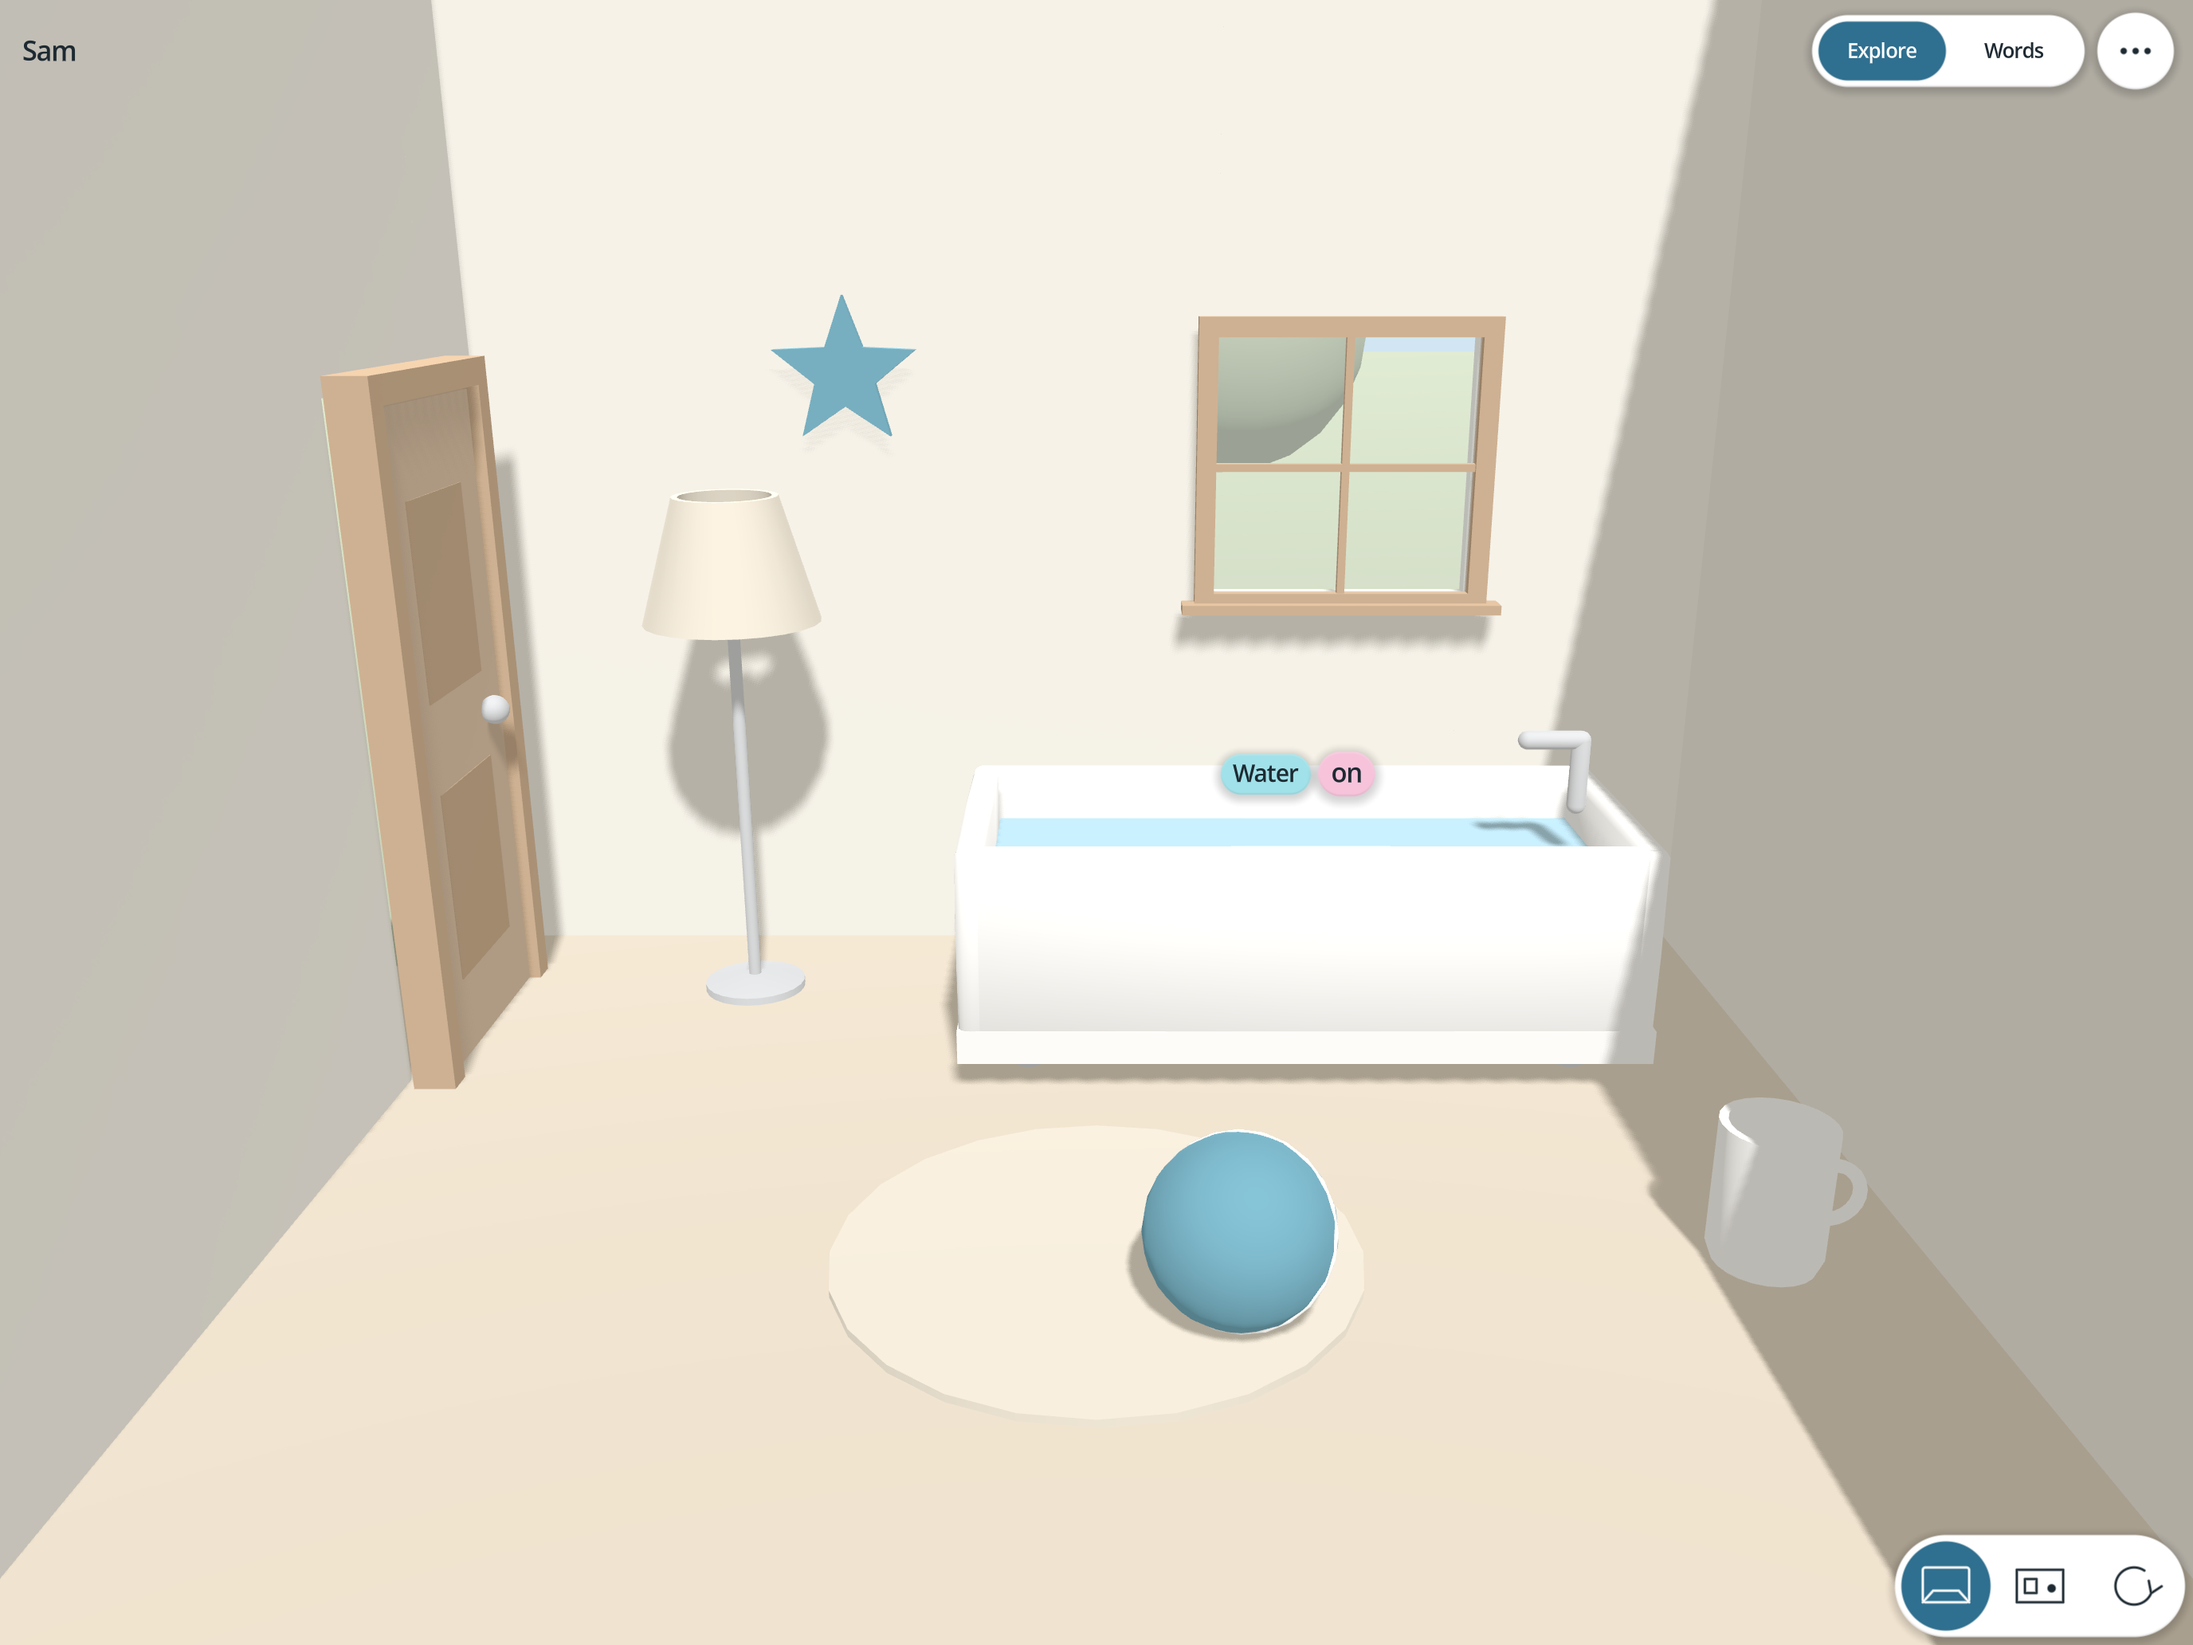
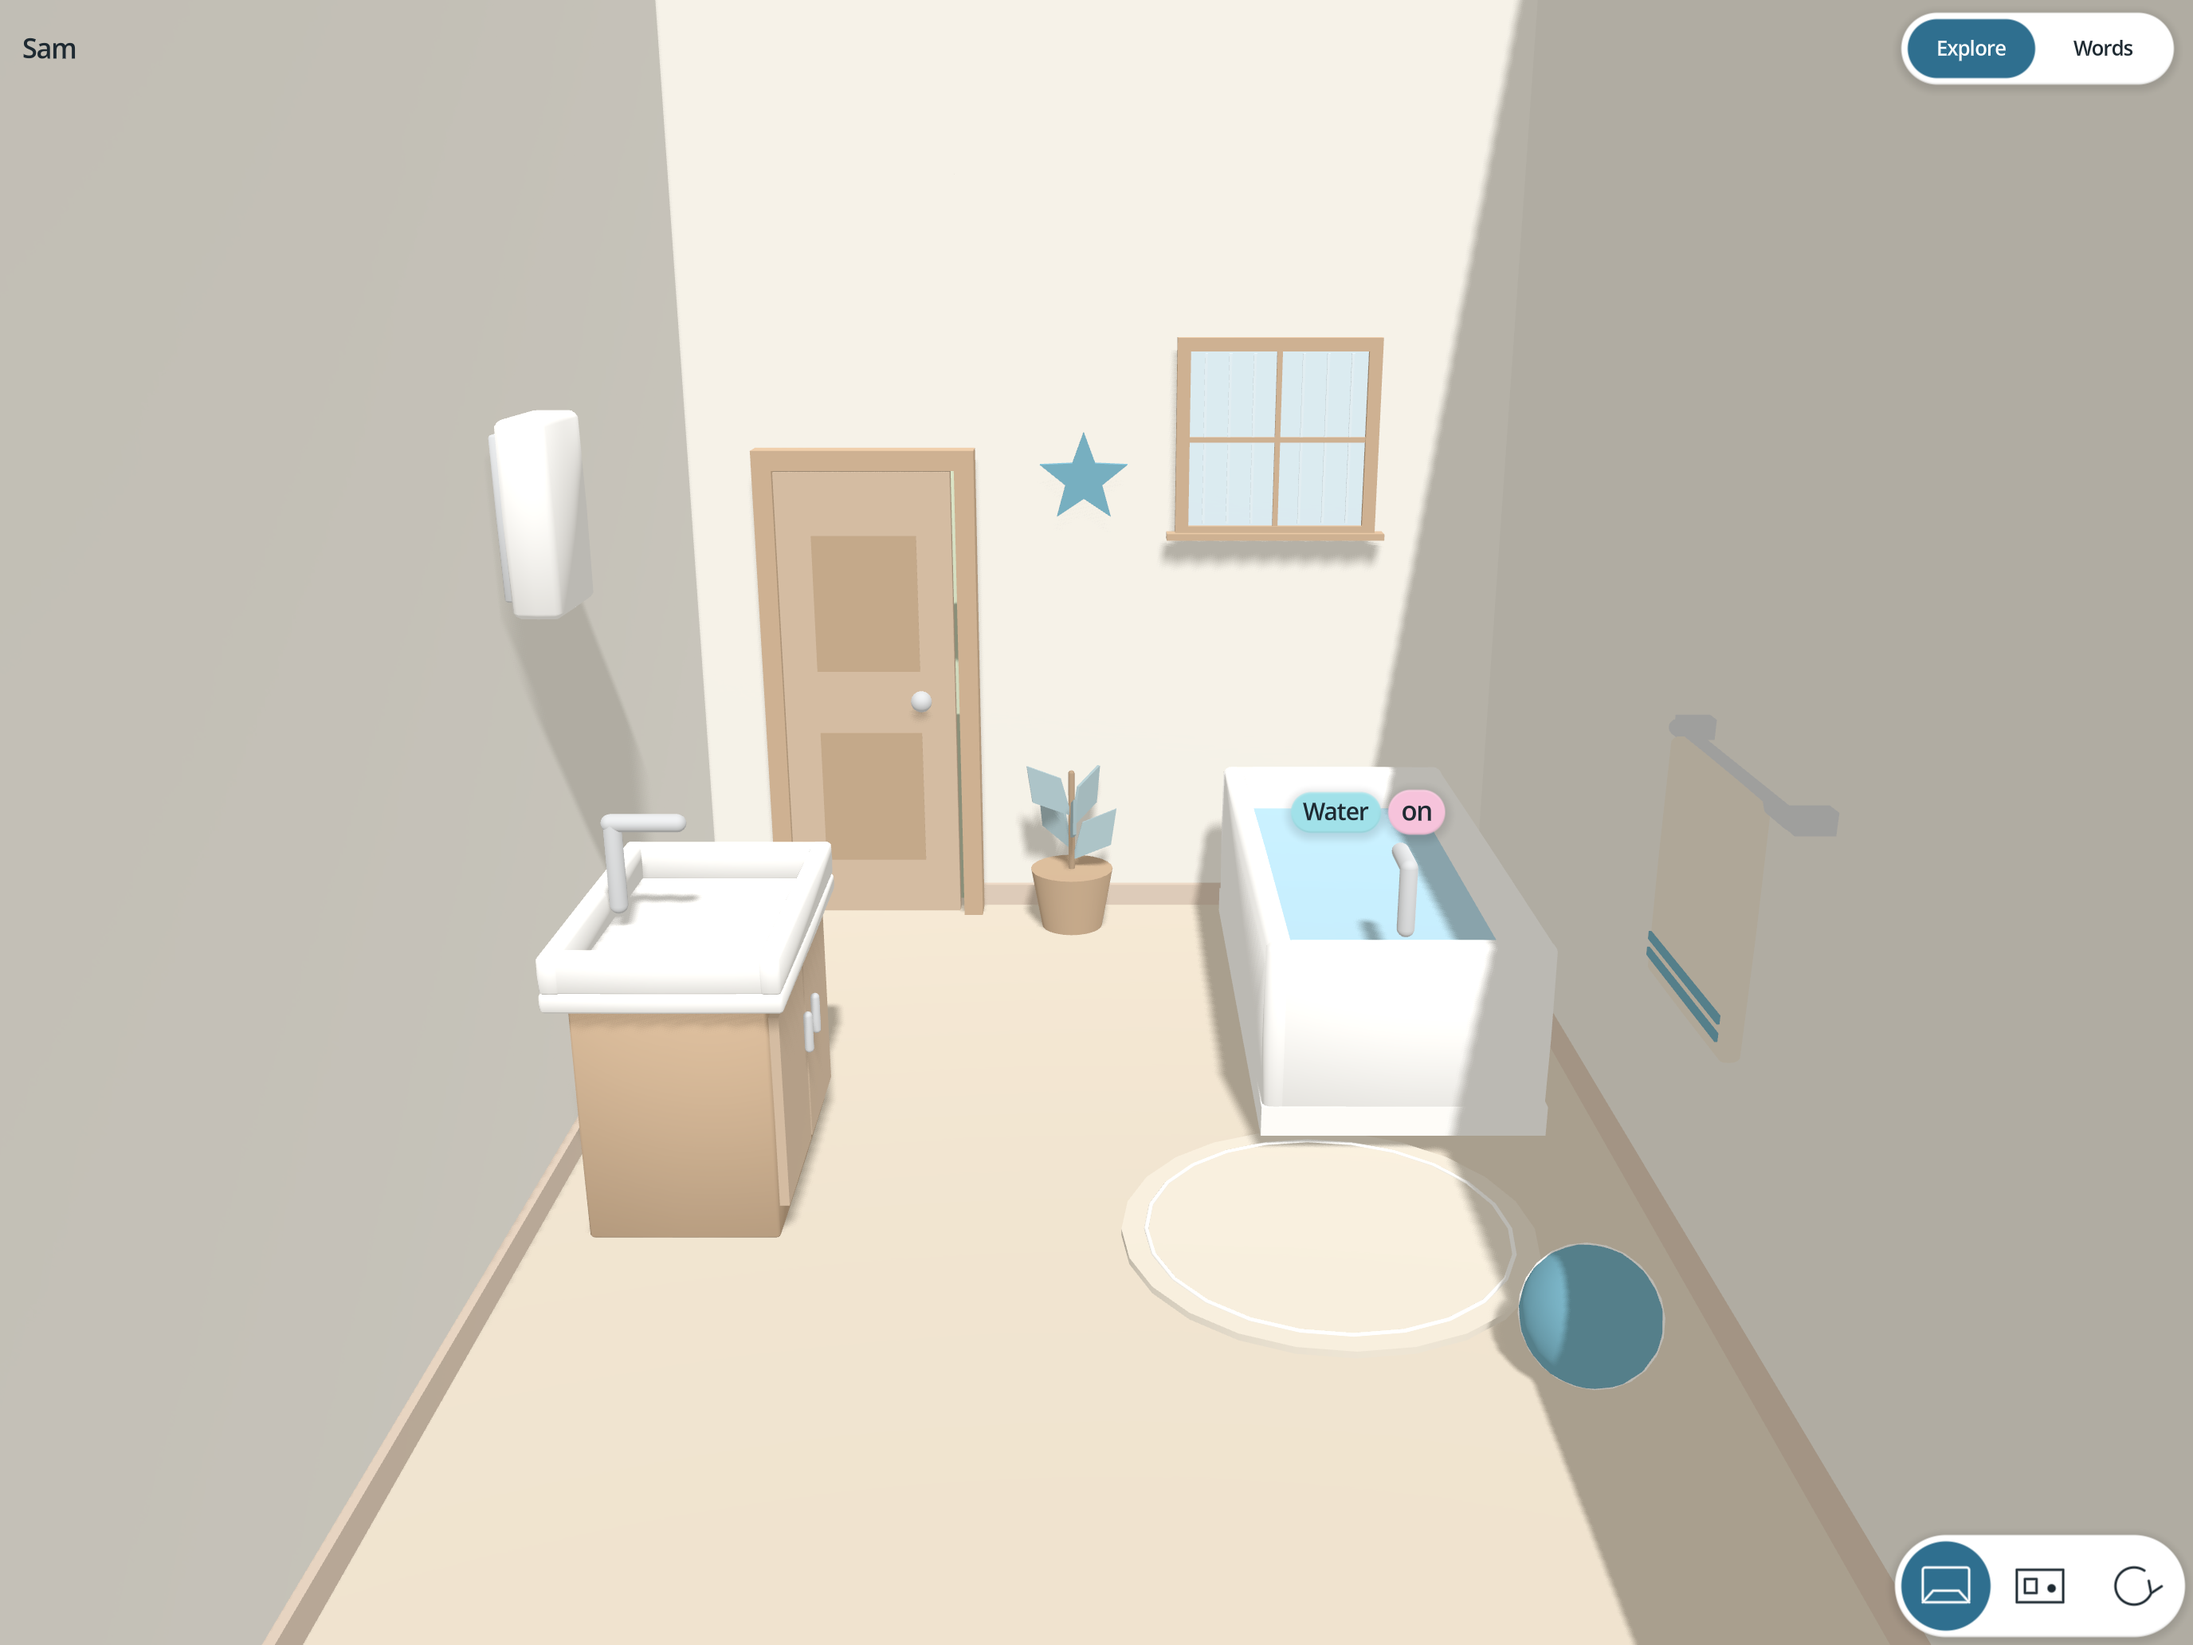
chore(tools) refresh store screenshots with current rooms and UI

diff --git a/docs/releases.md b/docs/releases.md
@@ -87,7 +87,7 @@ signing key. A device can move between the two without losing its recordings.
   "Get Alex" section lists the steps. The Play API cannot manage testers on this kind of track, so the group
   was attached once in Play Console.
 - The listing is `store/play/listing.json` and `description.txt`. `just store-graphics` renders its icon,
-  feature graphic and five 1920x1080 screenshots into `store/play/`.
+  feature graphic and six 1920x1080 screenshots into `store/play/`, including the room chooser.
 - Every upload sets the listing, the icon, the feature graphic and the phone and tablet screenshots. They go in
   an edit of their own after the bundle, so a bad listing never holds a build back from testers.
 - The API has no Chromebook image type, so that set was uploaded once in Play Console.
